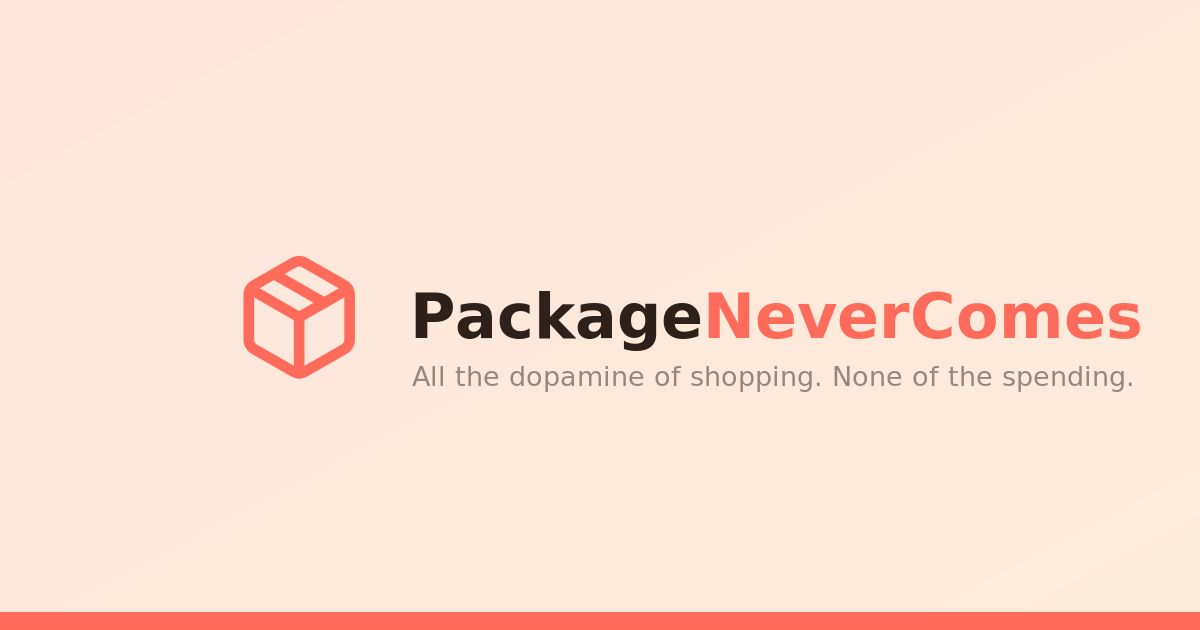
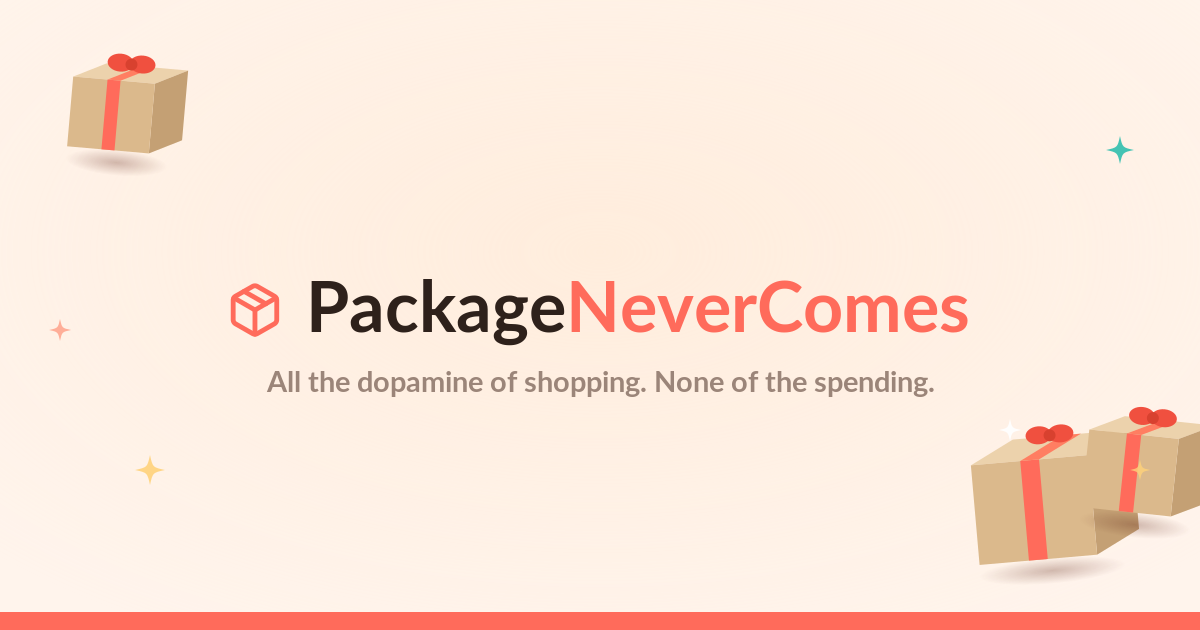
Redesign og.png + og-order.png with Lato to match site; og-order shows truck arrived on map; cache-bust

diff --git a/index.html b/index.html
@@ -14,7 +14,7 @@
 <meta property="og:url" content="https://packagenevercomes.com" />
 <meta property="og:title" content="PackageNeverComes: the dopamine of shopping, none of the spending" />
 <meta property="og:description" content="Browse real best-sellers, fill your cart, check out, and watch your package come… it never does. You don't spend a penny." />
-<meta property="og:image" content="https://packagenevercomes.com/og.png?v=3" />
+<meta property="og:image" content="https://packagenevercomes.com/og.png?v=4" />
 <meta property="og:image:type" content="image/png" />
 <meta property="og:image:width" content="1200" />
 <meta property="og:image:height" content="630" />
@@ -22,7 +22,7 @@
 <meta name="twitter:card" content="summary_large_image" />
 <meta name="twitter:title" content="PackageNeverComes: the dopamine of shopping, none of the spending" />
 <meta name="twitter:description" content="Browse real best-sellers, fill your cart, check out, and watch your package come… it never does." />
-<meta name="twitter:image" content="https://packagenevercomes.com/og.png?v=3" />
+<meta name="twitter:image" content="https://packagenevercomes.com/og.png?v=4" />
 <style>
   @import url('https://fonts.googleapis.com/css2?family=Lato:wght@400;700;900&display=swap');
   :root{
@@ -934,7 +934,7 @@ function shareSavings(){
   var url="https://packagenevercomes.com";
   function fallback(){if(navigator.share){navigator.share({title:"PackageNeverComes",text:txt,url:url}).catch(function(){});}else{navigator.clipboard.writeText(txt).then(function(){toast("Copied to clipboard!","check");},function(){alert(txt);});}}
   if(navigator.canShare&&window.fetch){
-    fetch("/og-order.png?v=1").then(function(r){return r.blob();}).then(function(b){
+    fetch("/og-order.png?v=2").then(function(r){return r.blob();}).then(function(b){
       var file=new File([b],"packagenevercomes.png",{type:"image/png"});
       if(navigator.canShare({files:[file]})){navigator.share({files:[file],text:txt}).catch(fallback);}else fallback();
     }).catch(fallback);